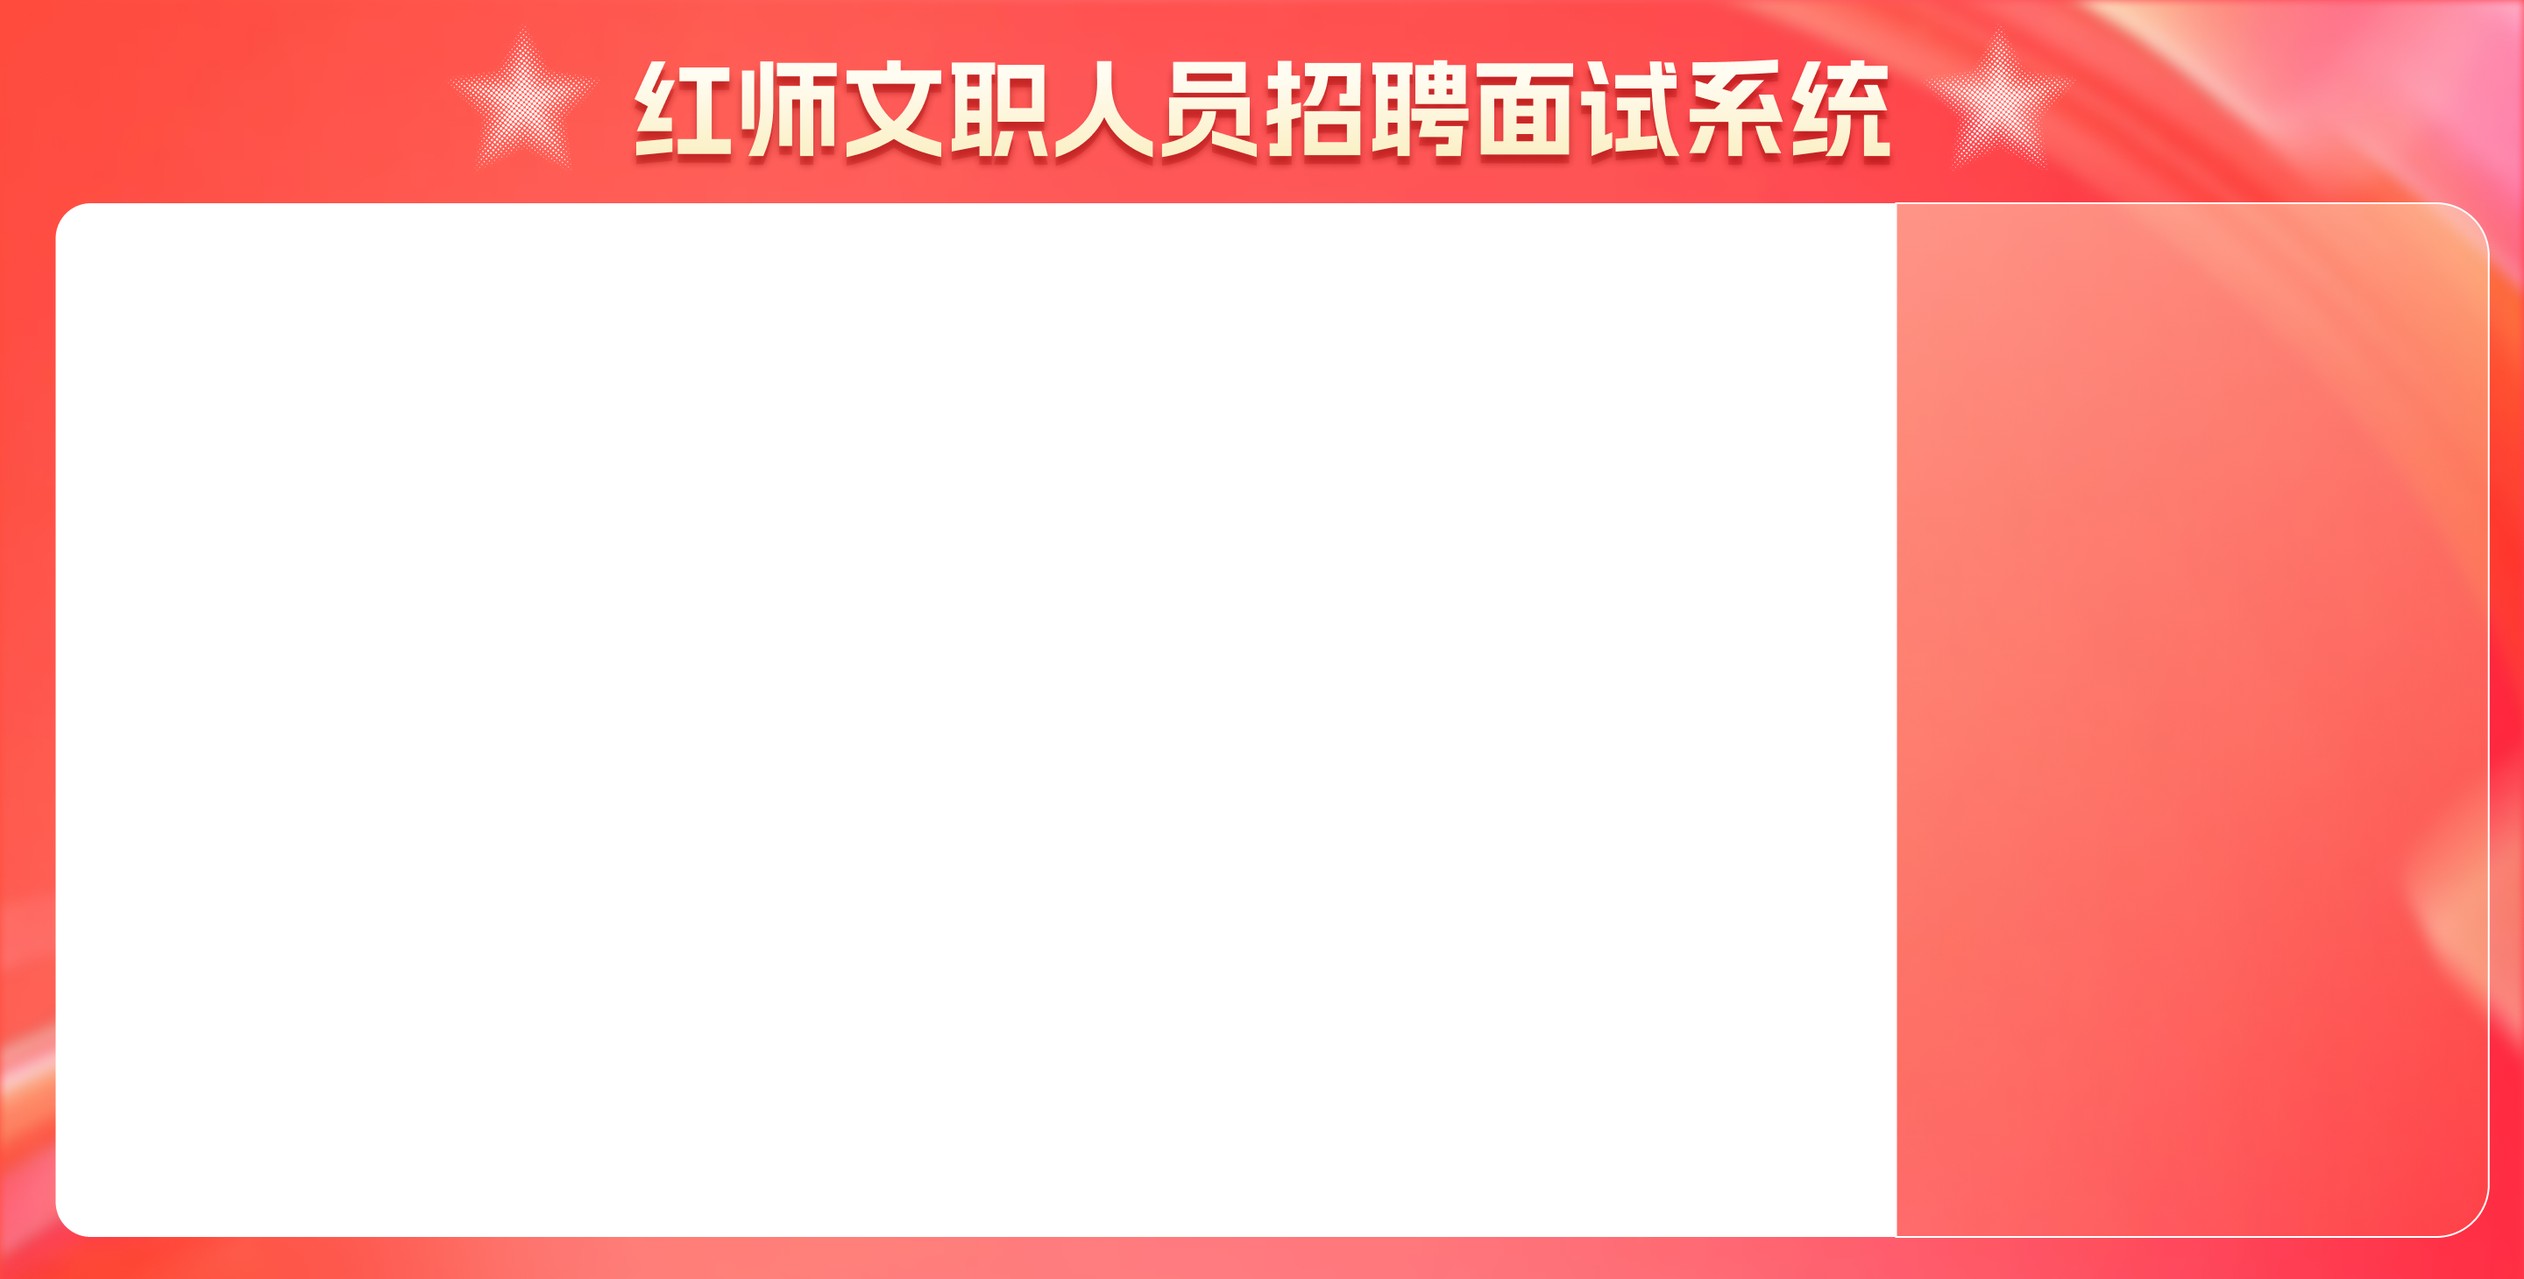
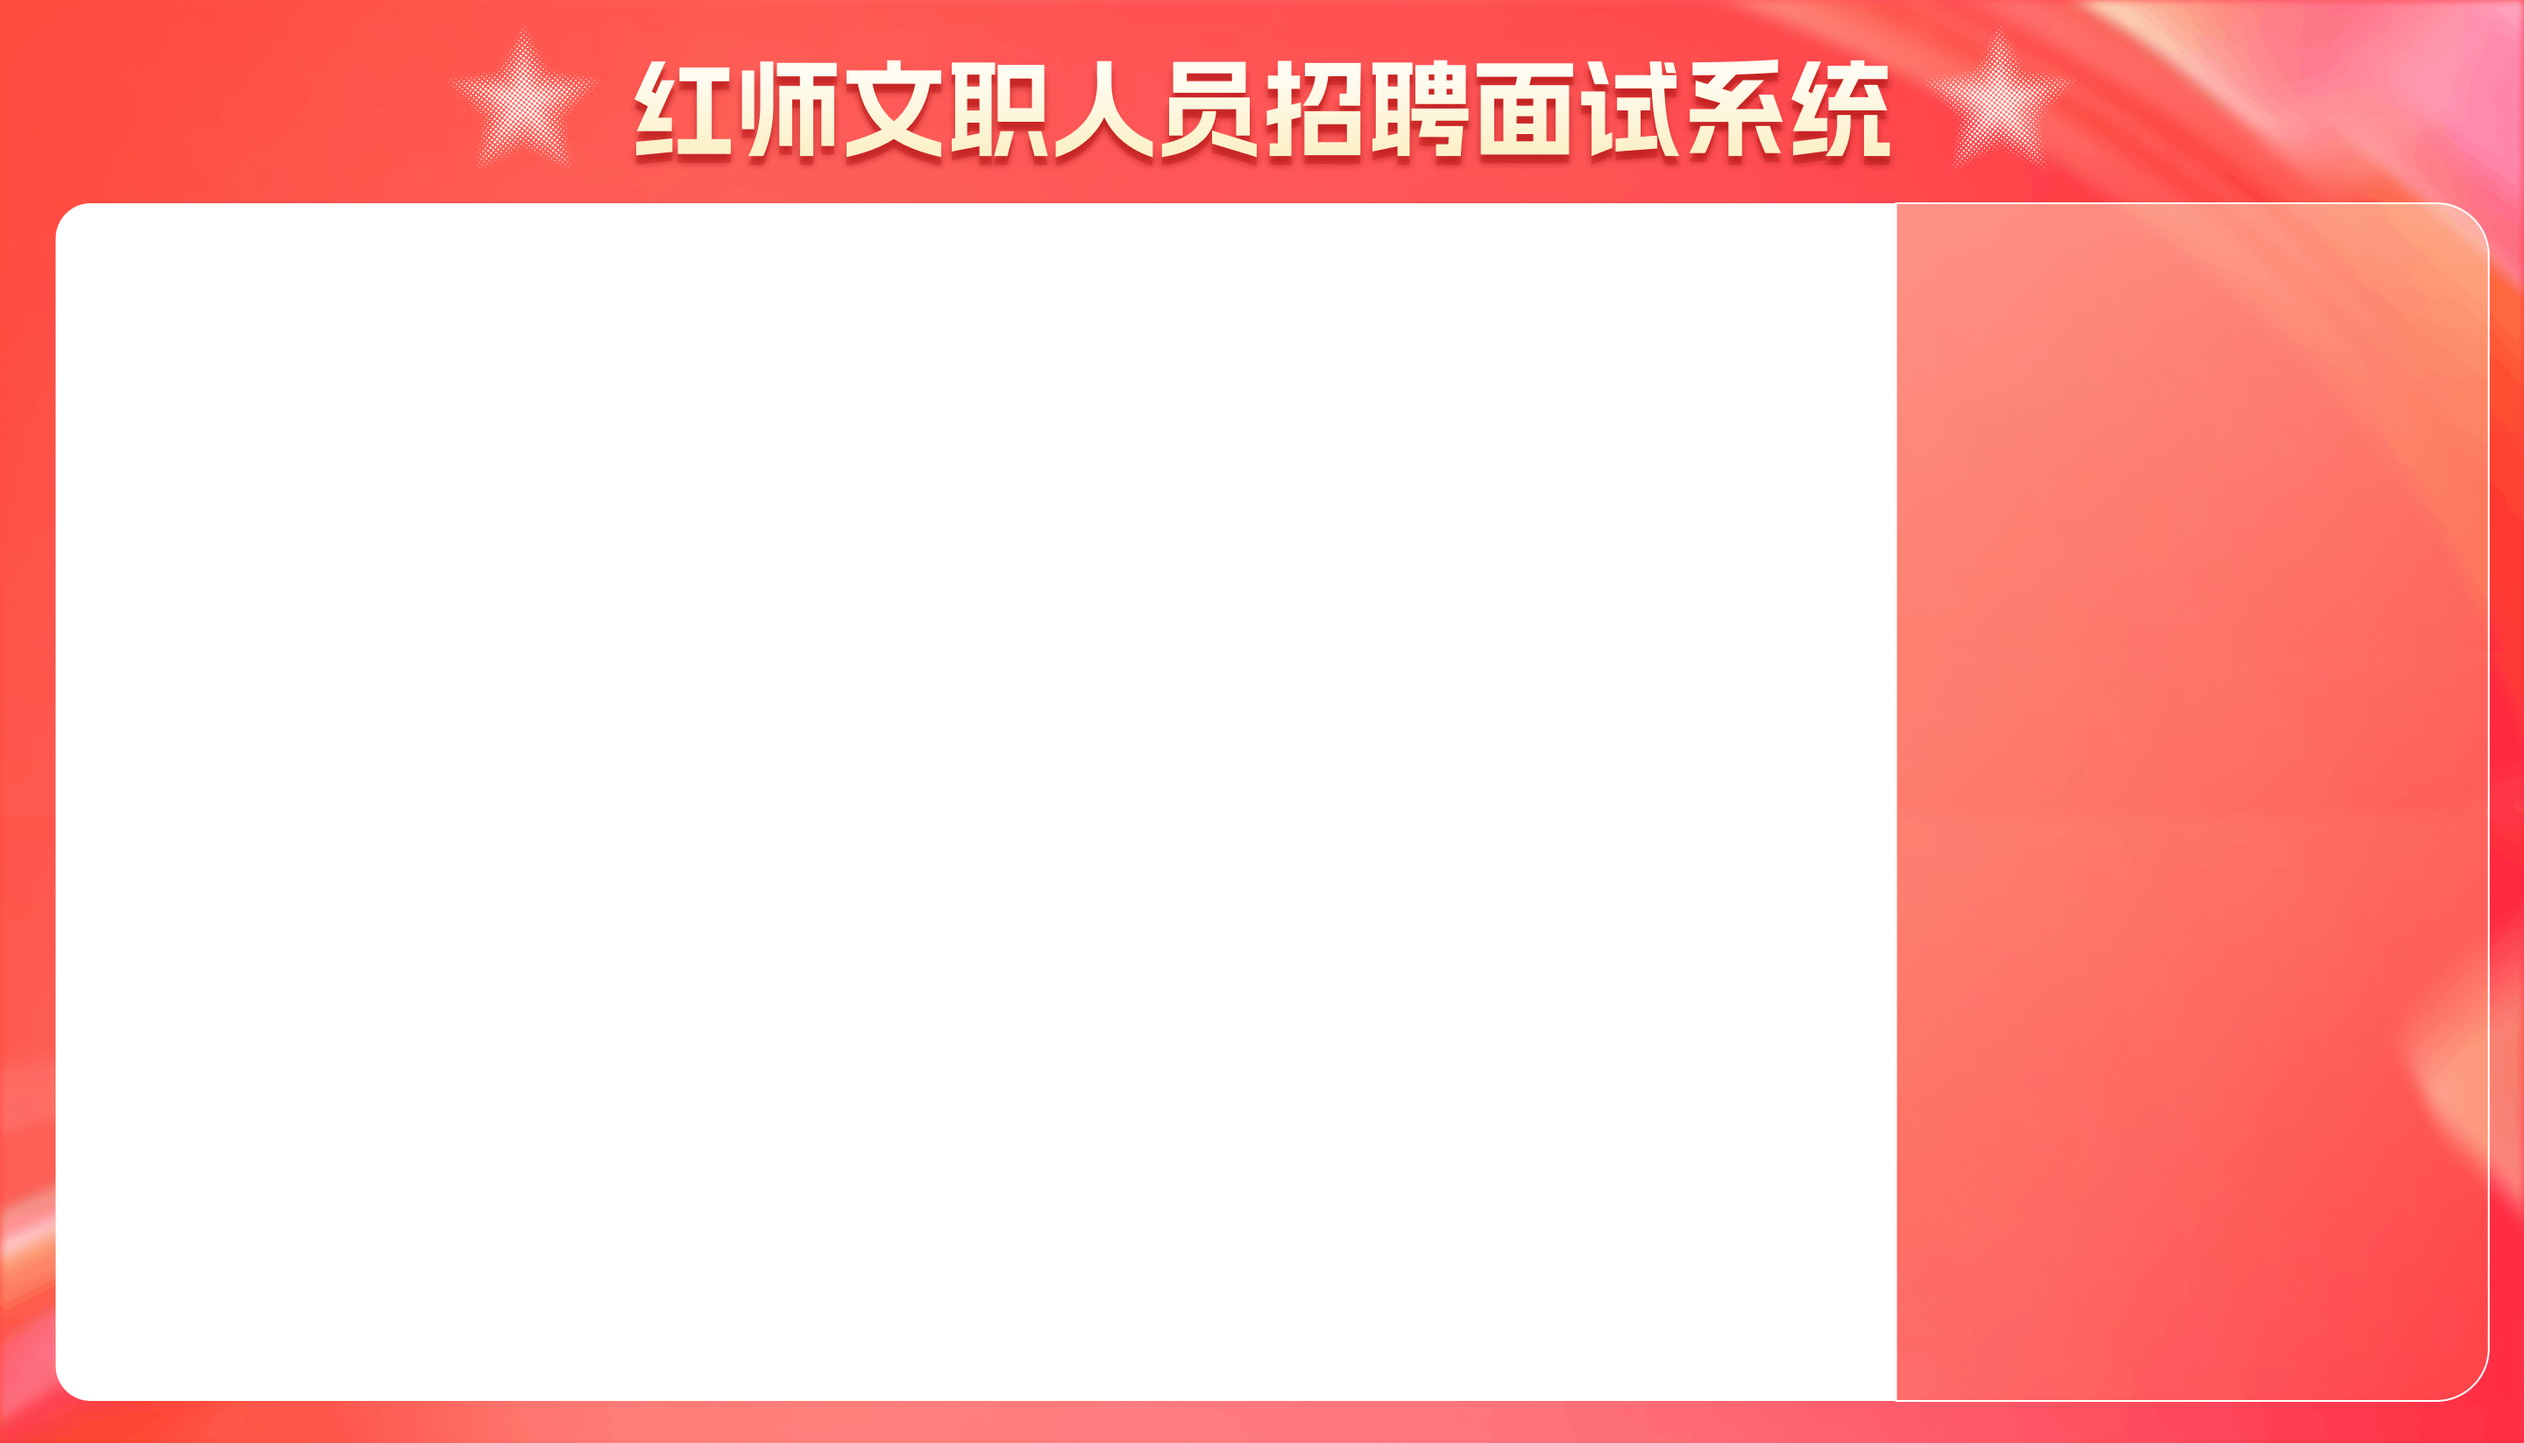
面试页面适应三种尺寸调整

diff --git a/lib/app/home/pages/exam/view.dart b/lib/app/home/pages/exam/view.dart
@@ -36,7 +36,7 @@ class _ExamPageState extends State<ExamPage> {
   final wsLogic = Get.put(WSLogic());
   final examLogic = Get.put(ExamLogic());
   bool _isLoading = false;
-  
+
   // 从 AppProviders 获取 screenAdapter
   final screenAdapter = AppProviders.instance.screenAdapter;
 
@@ -87,9 +87,11 @@ class _ExamPageState extends State<ExamPage> {
         ),
         actions: [
           Padding(
-            padding: EdgeInsets.only(right: screenAdapter.getAdaptivePadding(16.0)),
+            padding:
+                EdgeInsets.only(right: screenAdapter.getAdaptivePadding(16.0)),
             child: InkWell(
-              borderRadius: BorderRadius.circular(screenAdapter.getAdaptiveWidth(32)),
+              borderRadius:
+                  BorderRadius.circular(screenAdapter.getAdaptiveWidth(32)),
               onTap: () {
                 headerLogic.clickHeadImage();
               },
@@ -123,10 +125,14 @@ class _ExamPageState extends State<ExamPage> {
                 ),
               ),
               width: screenAdapter.getAdaptiveWidth(1440),
-              height: screenAdapter.getAdaptiveHeight(702),
+              height: screenAdapter.getAdaptiveHeight(796),
               clipBehavior: Clip.antiAlias,
               child: Padding(
-                padding: EdgeInsets.all(screenAdapter.getAdaptivePadding(16.0)),
+                padding: EdgeInsets.only(
+                    left: screenAdapter.getAdaptivePadding(11.0),
+                    top: screenAdapter.getAdaptivePadding(12.0),
+                    right: screenAdapter.getAdaptivePadding(16.0),
+                    bottom: screenAdapter.getAdaptivePadding(25.0)),
                 child: Row(
                   crossAxisAlignment: CrossAxisAlignment.start,
                   children: [
@@ -143,7 +149,7 @@ class _ExamPageState extends State<ExamPage> {
                     SizedBox(width: screenAdapter.getAdaptiveWidth(32)),
                     Expanded(
                       flex: 24, // 约24%的空间给信息面板
-                      child: Padding(
+                      child: Container(
                         padding: EdgeInsets.only(
                           top: screenAdapter.getAdaptivePadding(123.0),
                         ),
@@ -182,7 +188,8 @@ class _ExamPageState extends State<ExamPage> {
     if (wsLogic.unitsList.value.isNotEmpty) {
       return Center(
         child: Padding(
-          padding: EdgeInsets.only(top: screenAdapter.getAdaptiveHeight(135.22)),
+          padding:
+              EdgeInsets.only(top: screenAdapter.getAdaptiveHeight(135.22)),
           child: SimpleRoulette(
             options: wsLogic.unitsList.value.map((unit) {
               return {'id': unit['id'], 'name': unit['name']};
@@ -204,14 +211,12 @@ class _ExamPageState extends State<ExamPage> {
     } else if (examLogic.questions.isNotEmpty) {
       return Padding(
         padding: EdgeInsets.symmetric(
-          horizontal: screenAdapter.getAdaptivePadding(16.0), 
-          vertical: screenAdapter.getAdaptivePadding(8.0)
-        ),
+            horizontal: screenAdapter.getAdaptivePadding(16.0),
+            vertical: screenAdapter.getAdaptivePadding(8.0)),
         child: ConstrainedBox(
           // 确保SuperListView有一个明确的最大高度
-          constraints: BoxConstraints(
-            maxHeight: screenAdapter.getAdaptiveHeight(480)
-          ),
+          constraints:
+              BoxConstraints(maxHeight: screenAdapter.getAdaptiveHeight(480)),
           child: SuperListView.builder(
             listController: examLogic.listController,
             controller: examLogic.scrollController,
@@ -229,7 +234,6 @@ class _ExamPageState extends State<ExamPage> {
         mainAxisAlignment: MainAxisAlignment.center,
         crossAxisAlignment: CrossAxisAlignment.center,
         children: [
-          SizedBox(height: screenAdapter.getAdaptiveHeight(80)),
           Container(
             width: screenAdapter.getAdaptiveWidth(189.78),
             height: screenAdapter.getAdaptiveHeight(189.78),
@@ -251,6 +255,7 @@ class _ExamPageState extends State<ExamPage> {
               height: 1.50,
             ),
           ),
+          SizedBox(height: screenAdapter.getAdaptiveHeight(60)),
         ],
       );
     }
@@ -258,16 +263,18 @@ class _ExamPageState extends State<ExamPage> {
 
   Widget _buildInfoPanel() {
     return Container(
+      padding: EdgeInsets.only(right: screenAdapter.getAdaptiveWidth(14)),
       width: screenAdapter.getAdaptiveWidth(300),
       child: Column(
         mainAxisSize: MainAxisSize.min,
         mainAxisAlignment: MainAxisAlignment.start,
         crossAxisAlignment: CrossAxisAlignment.start,
         children: [
+          SizedBox(height: screenAdapter.getAdaptiveHeight(10)),
           _buildLoginInfo(),
           SizedBox(height: screenAdapter.getAdaptiveHeight(10)),
           ThemeUtil.lineH(height: screenAdapter.getAdaptiveHeight(2)),
-          SizedBox(height: screenAdapter.getAdaptiveHeight(10)),
+          SizedBox(height: screenAdapter.getAdaptiveHeight(20)),
           _buildConnectionStatus(),
           SizedBox(height: screenAdapter.getAdaptiveHeight(10)),
           ThemeUtil.lineH(height: screenAdapter.getAdaptiveHeight(2)),
@@ -295,7 +302,7 @@ class _ExamPageState extends State<ExamPage> {
             fontWeight: FontWeight.w600,
           ),
         ),
-        SizedBox(width: screenAdapter.getAdaptiveWidth(20)),
+        SizedBox(width: screenAdapter.getAdaptiveWidth(10)),
         Container(
           width: screenAdapter.getAdaptiveWidth(120),
           height: screenAdapter.getAdaptiveHeight(35),
@@ -323,23 +330,23 @@ class _ExamPageState extends State<ExamPage> {
               ),
               // 设置提示文字颜色
               contentPadding: EdgeInsets.symmetric(
-                vertical: screenAdapter.getAdaptivePadding(10), 
-                horizontal: screenAdapter.getAdaptivePadding(15)
-              ),
+                  vertical: screenAdapter.getAdaptivePadding(10),
+                  horizontal: screenAdapter.getAdaptivePadding(15)),
               // 内边距
               enabledBorder: OutlineInputBorder(
                 borderSide: BorderSide(color: textColor, width: 0.2),
-                borderRadius: BorderRadius.circular(screenAdapter.getAdaptiveWidth(8)),
+                borderRadius:
+                    BorderRadius.circular(screenAdapter.getAdaptiveWidth(8)),
               ),
               focusedBorder: OutlineInputBorder(
                 borderSide: BorderSide(color: textColor, width: 0.8),
-                borderRadius: BorderRadius.circular(screenAdapter.getAdaptiveWidth(8)),
+                borderRadius:
+                    BorderRadius.circular(screenAdapter.getAdaptiveWidth(8)),
               ),
             ),
             style: TextStyle(
-              color: Colors.orange, 
-              fontSize: screenAdapter.getAdaptiveFontSize(16)
-            ), // 输入文字颜色和样式
+                color: Colors.orange,
+                fontSize: screenAdapter.getAdaptiveFontSize(16)), // 输入文字颜色和样式
           ),
         ),
         SizedBox(width: screenAdapter.getAdaptiveWidth(20)),
@@ -400,7 +407,8 @@ class _ExamPageState extends State<ExamPage> {
                   end: Alignment.topCenter,
                   colors: [Color(0xFFFFD566), Colors.white], // 默认渐变色
                 ),
-          borderRadius: BorderRadius.circular(screenAdapter.getAdaptiveWidth(10)),
+          borderRadius:
+              BorderRadius.circular(screenAdapter.getAdaptiveWidth(10)),
         ),
         child: Center(
           child: Text(
@@ -436,15 +444,15 @@ class _ExamPageState extends State<ExamPage> {
                   end: Alignment.topCenter,
                   colors: [Color(0xFFFFD566), Colors.white], // 默认渐变色
                 ),
-          borderRadius: BorderRadius.circular(screenAdapter.getAdaptiveWidth(10)),
+          borderRadius:
+              BorderRadius.circular(screenAdapter.getAdaptiveWidth(10)),
         ),
         child: Center(
           child: Text(
             '断开',
             style: TextStyle(
-              color: Colors.blueGrey, 
-              fontSize: screenAdapter.getAdaptiveFontSize(16)
-            ),
+                color: Colors.blueGrey,
+                fontSize: screenAdapter.getAdaptiveFontSize(16)),
           ),
         ),
       ),
@@ -476,10 +484,12 @@ class _ExamPageState extends State<ExamPage> {
         });
       },
       child: Container(
-        margin: EdgeInsets.symmetric(vertical: screenAdapter.getAdaptivePadding(8)),
+        margin:
+            EdgeInsets.symmetric(vertical: screenAdapter.getAdaptivePadding(8)),
         decoration: BoxDecoration(
           color: backgroundColor,
-          borderRadius: BorderRadius.circular(screenAdapter.getAdaptiveWidth(2)),
+          borderRadius:
+              BorderRadius.circular(screenAdapter.getAdaptiveWidth(2)),
         ),
         child: Padding(
           padding: EdgeInsets.all(screenAdapter.getAdaptivePadding(16.0)),
@@ -500,7 +510,8 @@ class _ExamPageState extends State<ExamPage> {
                     Expanded(
                       child: Text(
                         question.title,
-                        style: TextStyle(fontSize: screenAdapter.getAdaptiveFontSize(16)),
+                        style: TextStyle(
+                            fontSize: screenAdapter.getAdaptiveFontSize(16)),
                       ),
                     ),
                   ],
@@ -516,7 +527,7 @@ class _ExamPageState extends State<ExamPage> {
   Widget _buildTimerPanel() {
     return Container(
       width: screenAdapter.getAdaptiveWidth(320),
-      height: screenAdapter.getAdaptiveHeight(406),
+      height: screenAdapter.getAdaptiveHeight(476),
       decoration: BoxDecoration(
         color: Colors.white,
         borderRadius: BorderRadius.circular(
@@ -543,10 +554,12 @@ class _ExamPageState extends State<ExamPage> {
                 width: double.infinity,
                 decoration: BoxDecoration(
                   color: Color(0xFFFFF1E8), // Background color
-                  borderRadius: BorderRadius.circular(screenAdapter.getAdaptiveWidth(2)),
+                  borderRadius:
+                      BorderRadius.circular(screenAdapter.getAdaptiveWidth(2)),
                 ),
                 child: Padding(
-                  padding: EdgeInsets.all(screenAdapter.getAdaptivePadding(16.0)),
+                  padding:
+                      EdgeInsets.all(screenAdapter.getAdaptivePadding(16.0)),
                   child: Column(
                     children: [
                       Center(
@@ -567,7 +580,9 @@ class _ExamPageState extends State<ExamPage> {
                                 text: ' ',
                                 // Increase space between digits of minutes
                                 style: TextStyle(
-                                    color: Colors.transparent, fontSize: screenAdapter.getAdaptiveFontSize(54)),
+                                    color: Colors.transparent,
+                                    fontSize:
+                                        screenAdapter.getAdaptiveFontSize(54)),
                               ),
                               TextSpan(
                                   text: (countdownLogic.currentSeconds ~/ 60)
@@ -583,7 +598,9 @@ class _ExamPageState extends State<ExamPage> {
                                 text: ' ',
                                 // Increase space between digits of seconds
                                 style: TextStyle(
-                                    color: Colors.transparent, fontSize: screenAdapter.getAdaptiveFontSize(54)),
+                                    color: Colors.transparent,
+                                    fontSize:
+                                        screenAdapter.getAdaptiveFontSize(54)),
                               ),
                               TextSpan(
                                   text: (countdownLogic.currentSeconds % 60)
@@ -620,7 +637,8 @@ class _ExamPageState extends State<ExamPage> {
                                   leading: Text(
                                     '第${index + 1}段用时：',
                                     style: TextStyle(
-                                      fontSize: screenAdapter.getAdaptiveFontSize(18),
+                                      fontSize:
+                                          screenAdapter.getAdaptiveFontSize(18),
                                       fontWeight: FontWeight.w400,
                                       fontFamily: 'PingFang SC',
                                     ),
@@ -630,7 +648,8 @@ class _ExamPageState extends State<ExamPage> {
                                     child: Text(
                                       segments[index],
                                       style: TextStyle(
-                                        fontSize: screenAdapter.getAdaptiveFontSize(18),
+                                        fontSize: screenAdapter
+                                            .getAdaptiveFontSize(18),
                                         color: Colors.redAccent,
                                         fontFamily: 'OPPOSans',
                                       ),
